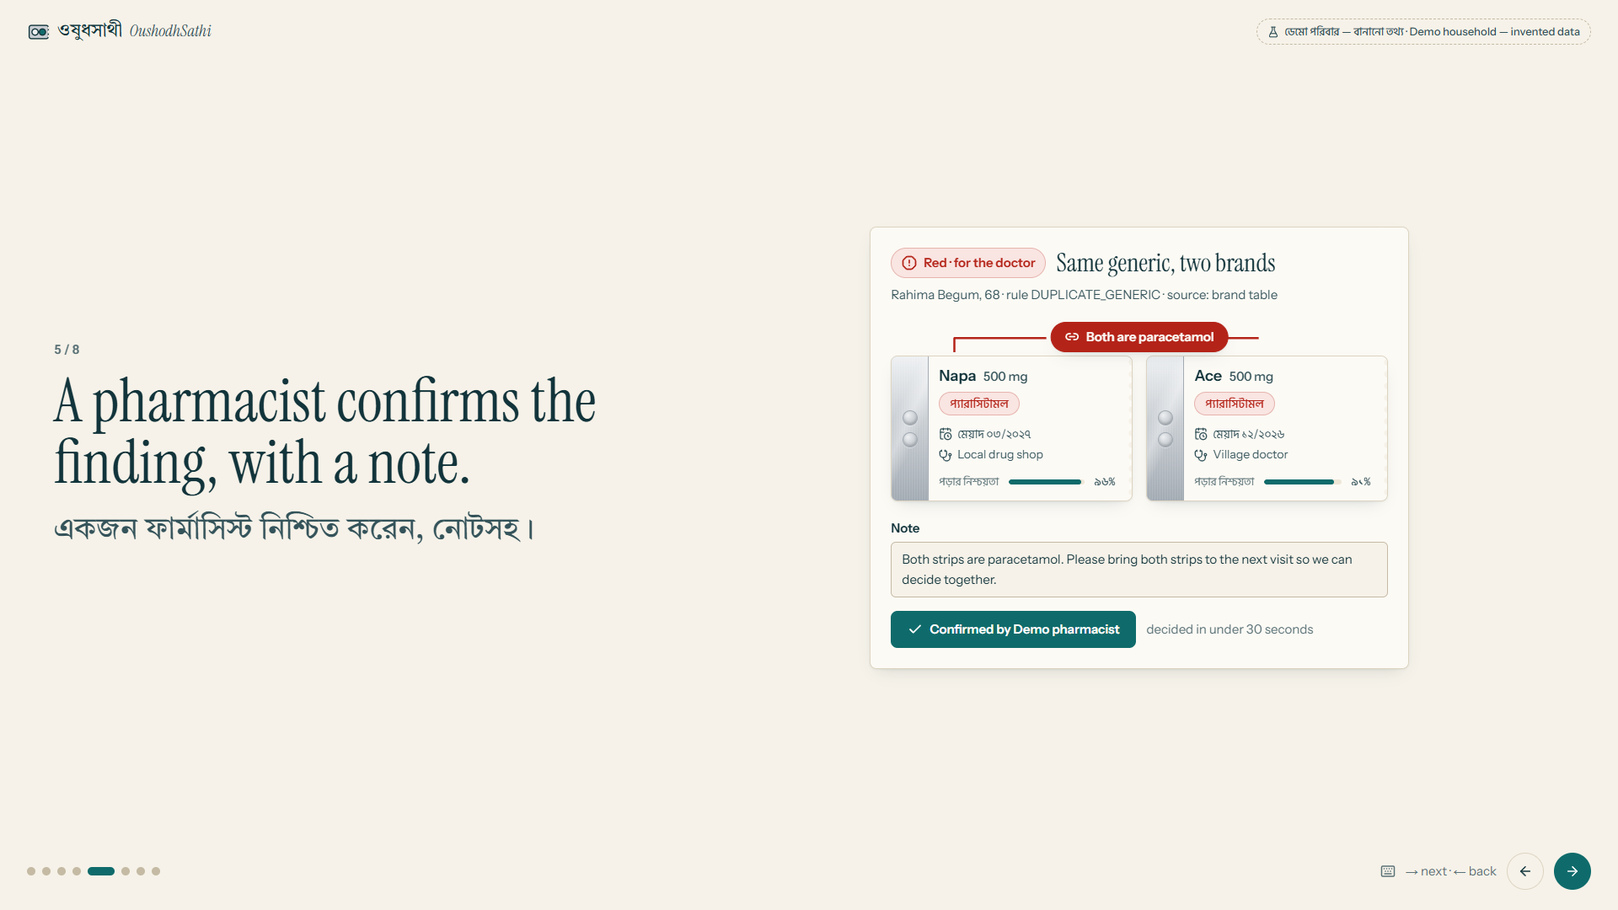
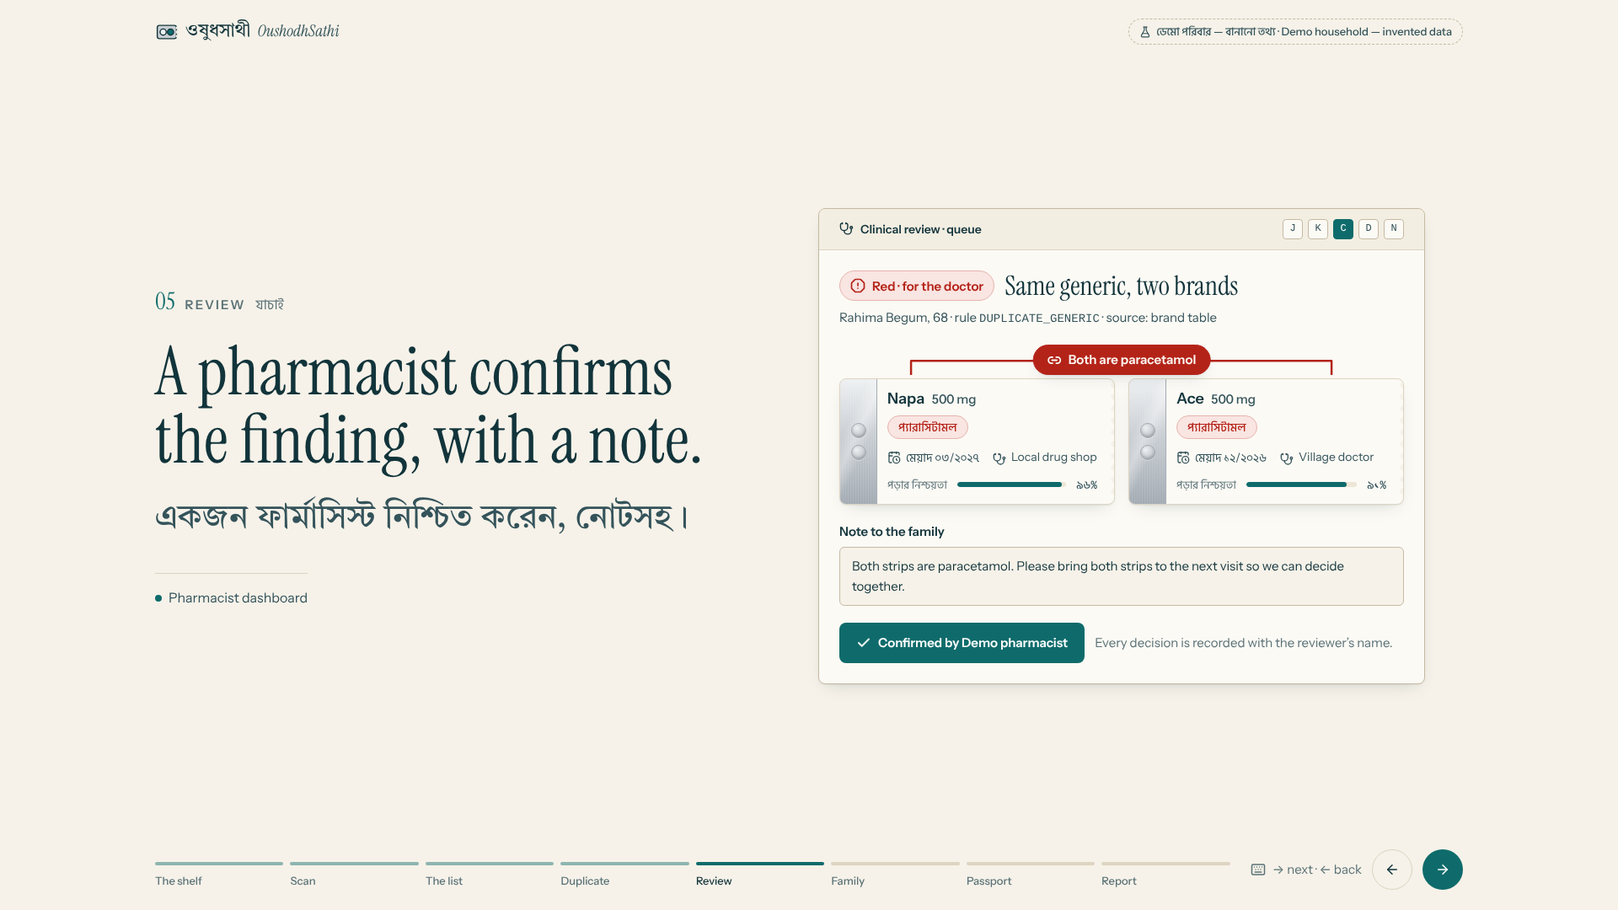
Demo: balanced stage, chapter rail, focused hero snap, device frames
- Centred two-column stage with a chapter label and 'who sees this' line
- Labelled progress rail instead of dots
- Duplicate step: the pair snaps side by side at full size, the rest of the
  shelf steps back; stacked connector on phones
- Review step framed as the pharmacist dashboard with its keyboard keys;
  family step inside a phone; list shows all six strips in two columns
- Tall stages scale down on short laptop screens so nothing scrolls
- DuplicateConnector: brackets now always draw in full (clip-path reveal
  instead of a dash animation Chrome mis-measured; vertical SVG gets an
  explicit height instead of the 150px default)

Claude-Session: https://claude.ai/code/session_015GZ2Ptjo5EV8De3PSNbFPu

diff --git a/frontend/src/app/demo/page.tsx b/frontend/src/app/demo/page.tsx
@@ -1,6 +1,6 @@
 "use client";
 
-import { ArrowLeft, ArrowRight, Check, Keyboard } from "lucide-react";
+import { ArrowLeft, ArrowRight, Camera, Check, Keyboard, Stethoscope } from "lucide-react";
 import { NextIntlClientProvider } from "next-intl";
 import { useCallback, useEffect, useState } from "react";
 import bn from "../../../messages/bn.json";
@@ -23,14 +23,14 @@ const PILE = [
 ];
 
 const STEPS = [
-  { en: "Rahima Begum, 68, collects medicines from three places.", bn: "রহিমা বেগম, ৬৮ — তিন জায়গা থেকে ওষুধ আসে।" },
-  { en: "Her daughter photographs the whole shelf.", bn: "মেয়ে পুরো তাকের ছবি তোলেন।" },
-  { en: "The list assembles itself.", bn: "তালিকা নিজে থেকেই সাজানো হয়।" },
-  { en: "Different names, same medicine: paracetamol, twice.", bn: "নাম আলাদা, ওষুধ একই — প্যারাসিটামল, দুইবার।" },
-  { en: "A pharmacist confirms the finding, with a note.", bn: "একজন ফার্মাসিস্ট নিশ্চিত করেন, নোটসহ।" },
-  { en: "Only now does the family see it, in simple Bangla.", bn: "এরপরই পরিবার দেখতে পায়, সহজ বাংলায়।" },
-  { en: "A passport for every doctor visit.", bn: "প্রতিবার ডাক্তারের কাছে নেওয়ার পাসপোর্ট।" },
-  { en: "And the weekly report keeps watch.", bn: "সাপ্তাহিক রিপোর্টে রক্তচাপের খোঁজ।" },
+  { ch: "The shelf", chBn: "তাক", who: "Rahima's home, Cumilla", en: "Rahima Begum, 68, collects medicines from three places.", bn: "রহিমা বেগম, ৬৮ — তিন জায়গা থেকে ওষুধ আসে।" },
+  { ch: "Scan", chBn: "ছবি", who: "Family app · phone camera", en: "Her daughter photographs the whole shelf.", bn: "মেয়ে পুরো তাকের ছবি তোলেন।" },
+  { ch: "The list", chBn: "তালিকা", who: "Vision model reads every strip", en: "The list assembles itself.", bn: "তালিকা নিজে থেকেই সাজানো হয়।" },
+  { ch: "Duplicate", chBn: "একই ওষুধ", who: "Rules engine · no AI", en: "Different names, same medicine: paracetamol, twice.", bn: "নাম আলাদা, ওষুধ একই — প্যারাসিটামল, দুইবার।" },
+  { ch: "Review", chBn: "যাচাই", who: "Pharmacist dashboard", en: "A pharmacist confirms the finding, with a note.", bn: "একজন ফার্মাসিস্ট নিশ্চিত করেন, নোটসহ।" },
+  { ch: "Family", chBn: "পরিবার", who: "Her daughter's phone, Toronto", en: "Only now does the family see it, in simple Bangla.", bn: "এরপরই পরিবার দেখতে পায়, সহজ বাংলায়।" },
+  { ch: "Passport", chBn: "পাসপোর্ট", who: "Printed, carried to every visit", en: "A passport for every doctor visit.", bn: "প্রতিবার ডাক্তারের কাছে নেওয়ার পাসপোর্ট।" },
+  { ch: "Report", chBn: "রিপোর্ট", who: "Weekly report", en: "And the weekly report keeps watch.", bn: "সাপ্তাহিক রিপোর্টে রক্তচাপের খোঁজ।" },
 ];
 
 /** A keyboard-paced walkthrough of the hero flow for recording. → / Space next, ← back. */
@@ -57,41 +57,51 @@ export default function DemoWalkthrough() {
   return (
     <NextIntlClientProvider locale="bn" messages={bn} timeZone="Asia/Dhaka">
       <div className="flex min-h-dvh flex-col overflow-x-hidden">
-        <header className="flex items-center justify-between gap-4 px-8 py-5">
+        <header className="mx-auto flex w-full max-w-[1680px] items-center justify-between gap-4 px-8 py-5 lg:px-16">
           <Wordmark />
           <DemoTag />
         </header>
 
-        <main className="grid flex-1 grid-cols-[minmax(0,1fr)] items-center gap-10 px-8 pb-6 lg:grid-cols-[minmax(0,0.85fr)_minmax(0,1.15fr)] lg:px-16">
-          <div key={`cap-${step}`} style={{ animation: "assemble 260ms var(--ease-out-quint) both" }}>
-            <p className="tabular text-[15px] font-semibold text-ink-faint">{step + 1} / {STEPS.length}</p>
-            <h1 lang="en" className="mt-3 font-display text-[clamp(40px,4.6vw,72px)] leading-[1.02] text-ink">{s.en}</h1>
-            <p lang="bn" className="mt-4 font-bn-display text-[clamp(24px,2.4vw,36px)] leading-snug text-ink-soft">{s.bn}</p>
+        <main className="mx-auto grid w-full max-w-[1680px] flex-1 grid-cols-[minmax(0,1fr)] items-center gap-10 px-8 pb-6 lg:grid-cols-[minmax(0,0.9fr)_minmax(0,1.1fr)] lg:gap-20 lg:px-16">
+          <div key={`cap-${step}`} className="max-w-[720px]" style={{ animation: "assemble 260ms var(--ease-out-quint) both" }}>
+            <p className="flex items-baseline gap-3 text-ink-faint">
+              <span className="tabular font-display text-[28px] leading-none text-teal">{String(step + 1).padStart(2, "0")}</span>
+              <span className="text-[15px] font-semibold uppercase tracking-[0.14em]">{s.ch}</span>
+              <span lang="bn" className="font-bn text-[16px]">{s.chBn}</span>
+            </p>
+            <h1 lang="en" className="mt-5 font-display text-[clamp(40px,4.4vw,80px)] leading-[1.02] text-ink">{s.en}</h1>
+            <p lang="bn" className="mt-5 font-bn-display text-[clamp(24px,2.3vw,40px)] leading-snug text-ink-soft">{s.bn}</p>
+            <p className="mt-8 inline-flex items-center gap-2 border-t border-rule pt-4 text-[16px] text-ink-soft">
+              <span aria-hidden className="h-2 w-2 rounded-full bg-teal" /> {s.who}
+            </p>
           </div>
 
-          <div className="relative flex min-h-[560px] min-w-0 items-center justify-center text-[18px]">
-            <Stage step={step} passportUrl={origin ? `${origin}/passport/1` : undefined} />
+          <div className="relative flex min-h-[520px] min-w-0 items-center justify-center text-[18px]">
+            <Stage key={step} step={step} passportUrl={origin ? `${origin}/passport/1` : undefined} />
           </div>
         </main>
 
-        <footer className="flex items-center justify-between gap-4 px-8 pb-6">
-          <ol className="flex gap-2" aria-label="Progress">
-            {STEPS.map((_, i) => (
-              <li key={i}>
+        <footer className="mx-auto flex w-full max-w-[1680px] items-end justify-between gap-6 px-8 pb-6 lg:px-16">
+          <ol className="grid min-w-0 flex-1 grid-cols-8 gap-2" aria-label="Progress">
+            {STEPS.map((st, i) => (
+              <li key={i} className="min-w-0">
                 <button
                   type="button"
-                  aria-label={`Step ${i + 1}`}
-                  aria-current={i === step}
+                  aria-label={`Step ${i + 1}: ${st.ch}`}
+                  aria-current={i === step ? "step" : undefined}
                   onClick={() => setStep(i)}
-                  className={cx("block h-2.5 rounded-chip transition-all duration-200", i === step ? "w-8 bg-teal" : "w-2.5 bg-rule-strong")}
-                />
+                  className="group block w-full pt-2 text-left"
+                >
+                  <span className={cx("block h-1 rounded-chip transition-colors duration-200", i < step ? "bg-teal/45" : i === step ? "bg-teal" : "bg-rule")} />
+                  <span className={cx("mt-2 hidden truncate text-[13px] font-medium md:block", i === step ? "text-ink" : "text-ink-faint group-hover:text-ink-soft")}>{st.ch}</span>
+                </button>
               </li>
             ))}
           </ol>
-          <div className="flex items-center gap-3 text-[15px] text-ink-faint">
-            <Keyboard aria-hidden size={18} /> → next · ← back
-            <button type="button" onClick={() => go(-1)} aria-label="Back" className="inline-flex h-11 w-11 items-center justify-center rounded-full border border-rule text-ink"><ArrowLeft aria-hidden size={18} /></button>
-            <button type="button" onClick={() => go(1)} aria-label="Next" className="inline-flex h-11 w-11 items-center justify-center rounded-full bg-teal text-on-teal"><ArrowRight aria-hidden size={18} /></button>
+          <div className="flex shrink-0 items-center gap-3 text-[15px] text-ink-faint">
+            <span className="hidden items-center gap-2 lg:inline-flex"><Keyboard aria-hidden size={18} /> → next · ← back</span>
+            <button type="button" onClick={() => go(-1)} aria-label="Back" className="inline-flex h-12 w-12 items-center justify-center rounded-full border border-rule text-ink"><ArrowLeft aria-hidden size={18} /></button>
+            <button type="button" onClick={() => go(1)} aria-label="Next" className="inline-flex h-12 w-12 items-center justify-center rounded-full bg-teal text-on-teal"><ArrowRight aria-hidden size={18} /></button>
           </div>
         </footer>
       </div>
@@ -99,25 +109,47 @@ export default function DemoWalkthrough() {
   );
 }
 
+/** A phone outline for screens the family sees. */
+function Phone({ children, label }: { children: React.ReactNode; label: string }) {
+  return (
+    <figure className="demo-fit w-full max-w-[420px]" style={{ animation: "assemble 280ms var(--ease-out-quint) both" }}>
+      <div className="rounded-[40px] border border-rule-strong bg-paper-sunk p-3 shadow-soft">
+        <div className="overflow-hidden rounded-[30px] border border-rule bg-paper">
+          <div className="flex items-center justify-between px-5 pb-1 pt-3 text-[12px] font-medium text-ink-faint">
+            <span className="tabular">9:41</span><span aria-hidden className="h-1.5 w-16 rounded-chip bg-rule" /><span>{label}</span>
+          </div>
+          <div className="relative max-h-[700px] overflow-hidden px-4 pb-5 pt-2">
+            {children}
+            <div aria-hidden className="pointer-events-none absolute inset-x-0 bottom-0 h-24 bg-gradient-to-t from-paper to-transparent" />
+          </div>
+        </div>
+      </div>
+    </figure>
+  );
+}
+
 function Stage({ step, passportUrl }: { step: number; passportUrl?: string }) {
   if (step <= 1) {
-    // the messy shelf: strips in a pile; step 1 adds the camera frame
+    // the messy shelf: strips in a pile; step 2 adds the camera frame around it
     return (
-      <div className="relative h-[520px] w-full max-w-[460px]">
+      <div className="relative h-[480px] w-full max-w-[500px]">
         {SHELF.map((it, i) => (
           <div
             key={it.id}
-            className="absolute left-1/2 top-4 w-[330px] transition-transform duration-500"
+            className="absolute left-1/2 top-[60px] w-[340px] transition-transform duration-500"
             style={{ transform: `translate(calc(-50% + ${PILE[i].x}px), ${PILE[i].y}px) rotate(${PILE[i].r}deg)`, zIndex: i }}
           >
             <StripCard item={it} density="compact" />
           </div>
         ))}
         {step === 1 && (
-          <div aria-hidden className="pointer-events-none absolute -inset-4 z-20 rounded-[24px] border-[3px] border-teal" style={{ animation: "assemble 240ms var(--ease-out-quint) both" }}>
+          <div aria-hidden className="pointer-events-none absolute -inset-x-6 -inset-y-2 z-20 rounded-[28px] border-[3px] border-teal" style={{ animation: "assemble 240ms var(--ease-out-quint) both" }}>
             {["left-3 top-3 border-l-4 border-t-4", "right-3 top-3 border-r-4 border-t-4", "bottom-3 left-3 border-b-4 border-l-4", "bottom-3 right-3 border-b-4 border-r-4"].map((c) => (
-              <span key={c} className={`absolute h-8 w-8 border-teal ${c}`} />
+              <span key={c} className={`absolute h-9 w-9 rounded-[3px] border-teal ${c}`} />
             ))}
+            <span className="absolute -bottom-5 left-1/2 inline-flex h-10 -translate-x-1/2 items-center gap-2 rounded-chip bg-teal px-4 text-[15px] font-semibold text-on-teal shadow-soft">
+              <Camera aria-hidden size={17} /> {SHELF.length} strips in view
+            </span>
           </div>
         )}
       </div>
@@ -125,9 +157,9 @@ function Stage({ step, passportUrl }: { step: number; passportUrl?: string }) {
   }
   if (step === 2) {
     return (
-      <div className="grid w-full max-w-[460px] gap-3">
-        {SHELF.slice(0, 5).map((it, i) => (
-          <div key={it.id} style={{ animation: `assemble 260ms var(--ease-out-quint) ${i * 140}ms both` }}>
+      <div className="demo-fit-sm grid w-full max-w-[880px] gap-4 sm:grid-cols-2">
+        {SHELF.map((it, i) => (
+          <div key={it.id} style={{ animation: `assemble 260ms var(--ease-out-quint) ${i * 120}ms both` }}>
             <StripCard item={it} density="compact" />
           </div>
         ))}
@@ -135,47 +167,83 @@ function Stage({ step, passportUrl }: { step: number; passportUrl?: string }) {
     );
   }
   if (step === 3) {
+    // the hero moment: the pair snaps together, everything else steps back
     return (
-      <div className="grid w-full max-w-[460px] gap-3">
-        <DuplicateConnector label="দুটোই প্যারাসিটামল" delay={150}>
+      <div className="w-full max-w-[860px]">
+        {/* side by side from tablet up; stacked on phones (display:none keeps one copy in the a11y tree) */}
+        <DuplicateConnector orientation="horizontal" label="দুটোই প্যারাসিটামল" delay={150} className="hidden sm:block">
+          <StripCard item={DEMO_ITEMS.napa} highlight="red" />
+          <StripCard item={DEMO_ITEMS.ace} highlight="red" />
+        </DuplicateConnector>
+        <DuplicateConnector label="দুটোই প্যারাসিটামল" delay={150} className="sm:hidden">
           <StripCard item={DEMO_ITEMS.napa} density="compact" highlight="red" />
           <StripCard item={DEMO_ITEMS.ace} density="compact" highlight="red" />
         </DuplicateConnector>
-        <div style={{ animation: "settle 240ms var(--ease-out-quint) 200ms both" }}><StripCard item={DEMO_ITEMS.camlodin} density="compact" /></div>
+        <p lang="en" className="mt-5 text-center text-[17px] text-ink-soft" style={{ animation: "assemble 260ms var(--ease-out-quint) 650ms both" }}>
+          From the <b className="font-semibold text-ink">local drug shop</b> and the <b className="font-semibold text-ink">village doctor</b>: two prescribers, one medicine.
+        </p>
+        <div aria-hidden className="mt-8 hidden grid-cols-2 gap-4 opacity-40 saturate-50 sm:grid">
+          <StripCard item={DEMO_ITEMS.camlodin} density="compact" />
+          <StripCard item={comet} density="compact" />
+        </div>
       </div>
     );
   }
   if (step === 4) {
     return (
-      <div lang="en" className="w-full max-w-[640px] rounded-card border border-rule bg-paper-raised p-6 text-[15px] shadow-soft">
-        <div className="flex flex-wrap items-center gap-3">
-          <SeverityBadge severity="red" label="Red · for the doctor" />
-          <span className="font-display text-[30px] leading-none">Same generic, two brands</span>
-        </div>
-        <p className="mt-2 text-ink-soft">Rahima Begum, 68 · rule DUPLICATE_GENERIC · source: brand table</p>
-        <div className="mt-5">
-          <DuplicateConnector orientation="horizontal" label="Both are paracetamol" animate={false}>
-            <StripCard item={DEMO_ITEMS.napa} density="compact" highlight="red" />
-            <StripCard item={DEMO_ITEMS.ace} density="compact" highlight="red" />
-          </DuplicateConnector>
-        </div>
-        <p className="mt-5 font-semibold text-ink">Note</p>
-        <p className="mt-1 rounded-md border border-rule-strong bg-paper px-3 py-2 text-ink">{DEMO_FLAG.note}</p>
-        <div className="mt-4 flex items-center gap-3">
-          <span className="inline-flex h-11 items-center gap-2 rounded-card bg-teal px-5 font-semibold text-on-teal" style={{ animation: "settle 260ms var(--ease-out-quint) 500ms both" }}>
-            <Check aria-hidden size={18} strokeWidth={2.5} /> Confirmed by Demo pharmacist
+      <div lang="en" className="demo-fit-sm w-full max-w-[720px] overflow-hidden rounded-card border border-rule-strong bg-paper-raised text-[15px] shadow-soft" style={{ animation: "assemble 280ms var(--ease-out-quint) both" }}>
+        <div className="flex items-center justify-between border-b border-rule bg-paper-sunk/60 px-6 py-3 text-[14px] text-ink-soft">
+          <span className="inline-flex items-center gap-2 font-semibold text-ink"><Stethoscope aria-hidden size={17} /> Clinical review · queue</span>
+          <span className="flex items-center gap-1.5">
+            {["J", "K", "C", "D", "N"].map((k) => (
+              <kbd key={k} className={cx("inline-flex h-6 min-w-6 items-center justify-center rounded border px-1.5 font-mono text-[12px]", k === "C" ? "border-teal bg-teal text-on-teal" : "border-rule-strong bg-paper-raised")}>{k}</kbd>
+            ))}
           </span>
-          <span className="text-ink-faint">decided in under 30 seconds</span>
+        </div>
+        <div className="p-6">
+          <div className="flex flex-wrap items-center gap-3">
+            <SeverityBadge severity="red" label="Red · for the doctor" />
+            <span className="font-display text-[32px] leading-none">Same generic, two brands</span>
+          </div>
+          <p className="mt-2 text-ink-soft">Rahima Begum, 68 · rule <code className="font-mono text-[14px]">DUPLICATE_GENERIC</code> · source: brand table</p>
+          <div className="mt-5">
+            <DuplicateConnector orientation="horizontal" label="Both are paracetamol" animate={false} className="hidden sm:block">
+              <StripCard item={DEMO_ITEMS.napa} density="compact" highlight="red" />
+              <StripCard item={DEMO_ITEMS.ace} density="compact" highlight="red" />
+            </DuplicateConnector>
+            <DuplicateConnector label="Both are paracetamol" animate={false} className="sm:hidden">
+              <StripCard item={DEMO_ITEMS.napa} density="compact" highlight="red" />
+              <StripCard item={DEMO_ITEMS.ace} density="compact" highlight="red" />
+            </DuplicateConnector>
+          </div>
+          <p className="mt-5 font-semibold text-ink">Note to the family</p>
+          <p className="mt-1.5 rounded-md border border-rule-strong bg-paper px-3.5 py-2.5 text-ink">{DEMO_FLAG.note}</p>
+          <div className="mt-5 flex flex-wrap items-center gap-3">
+            <span className="inline-flex h-12 items-center gap-2 rounded-card bg-teal px-5 font-semibold text-on-teal" style={{ animation: "settle 260ms var(--ease-out-quint) 500ms both" }}>
+              <Check aria-hidden size={18} strokeWidth={2.5} /> Confirmed by Demo pharmacist
+            </span>
+            <span className="text-ink-faint">Every decision is recorded with the reviewer&rsquo;s name.</span>
+          </div>
         </div>
       </div>
     );
   }
-  if (step === 5) return <div className="w-full max-w-[460px]"><FlagResult flag={DEMO_FLAG} /></div>;
-  if (step === 6) return <div className="w-full max-w-[560px]" style={{ animation: "settle 260ms var(--ease-out-quint) both" }}><MedicinePassport passport={DEMO_PASSPORT} url={passportUrl} /></div>;
+  if (step === 5) return <Phone label="ওষুধসাথী"><FlagResult flag={DEMO_FLAG} /></Phone>;
+  if (step === 6) return <div className="demo-fit w-full max-w-[580px] rotate-[0.6deg]" style={{ animation: "settle 260ms var(--ease-out-quint) both" }}><MedicinePassport passport={DEMO_PASSPORT} url={passportUrl} /></div>;
+  const first = DEMO_BP[0];
+  const last = DEMO_BP[DEMO_BP.length - 1];
   return (
-    <div className="w-full max-w-[560px] rounded-card border border-rule bg-paper-raised p-6" style={{ animation: "assemble 260ms var(--ease-out-quint) both" }}>
-      <p className="font-bn-display text-[24px]">রক্তচাপ — গত ৭ দিন</p>
-      <div className="mt-3"><BPTrend readings={DEMO_BP} height={280} /></div>
+    <div className="w-full max-w-[640px] rounded-card border border-rule bg-paper-raised p-7 shadow-soft" style={{ animation: "assemble 260ms var(--ease-out-quint) both" }}>
+      <div className="flex flex-wrap items-baseline justify-between gap-3">
+        <p className="font-bn-display text-[26px]">রক্তচাপ — গত ৭ দিন</p>
+        {first && last && (
+          <p lang="en" className="tabular text-[15px] text-ink-soft">
+            {first.systolic}/{first.diastolic} → <b className="font-semibold text-ink">{last.systolic}/{last.diastolic}</b> mmHg
+          </p>
+        )}
+      </div>
+      <div className="mt-4"><BPTrend readings={DEMO_BP} height={300} /></div>
+      <p className="mt-4 border-t border-rule pt-4 text-[15px] text-ink-soft">Sent to the family every Friday. Target 140/90 marked on the chart.</p>
     </div>
   );
 }

diff --git a/frontend/src/components/DuplicateConnector.tsx b/frontend/src/components/DuplicateConnector.tsx
@@ -43,6 +43,7 @@ export function DuplicateConnector({
           className="absolute inset-x-[12%] top-3 h-6 w-[76%] overflow-visible"
           viewBox="0 0 100 20"
           preserveAspectRatio="none"
+          style={anim("reveal-x", 320, 200)}
         >
           <path
             d="M1 20 V6 H99 V20"
@@ -51,9 +52,6 @@ export function DuplicateConnector({
             strokeWidth={2.5}
             strokeLinejoin="round"
             vectorEffect="non-scaling-stroke"
-            pathLength={100}
-            strokeDasharray={100}
-            style={animate ? ({ "--len": 100, animation: `draw 320ms var(--ease-out-quint) ${delay + 200}ms both` } as CSSProperties) : undefined}
           />
         </svg>
         <span
@@ -84,9 +82,10 @@ export function DuplicateConnector({
     <div className={cx("relative min-w-0 pl-6", className)} role="group" aria-label={label}>
       <svg
         aria-hidden
-        className="absolute bottom-10 left-0 top-10 w-5 overflow-visible"
+        className="absolute left-0 top-10 h-[calc(100%-5rem)] w-5 overflow-visible"
         viewBox="0 0 20 100"
         preserveAspectRatio="none"
+        style={anim("reveal-y", 320, 200)}
       >
         <path
           d="M20 1 H5 V99 H20"
@@ -95,9 +94,6 @@ export function DuplicateConnector({
           strokeWidth={2.5}
           strokeLinejoin="round"
           vectorEffect="non-scaling-stroke"
-          pathLength={100}
-          strokeDasharray={100}
-          style={animate ? ({ "--len": 100, animation: `draw 320ms var(--ease-out-quint) ${delay + 200}ms both` } as CSSProperties) : undefined}
         />
       </svg>
       <div className="flex min-w-0 flex-col gap-3">

diff --git a/frontend/src/app/globals.css b/frontend/src/app/globals.css
@@ -239,9 +239,14 @@ a {
   from { transform: translateX(28px); }
   to { transform: none; }
 }
-@keyframes draw {
-  from { stroke-dashoffset: var(--len, 400); }
-  to { stroke-dashoffset: 0; }
+/* Brackets reveal from the middle outwards; the resting state is always the full path. */
+@keyframes reveal-x {
+  from { clip-path: inset(0 50% 0 50%); }
+  to { clip-path: inset(0 0 0 0); }
+}
+@keyframes reveal-y {
+  from { clip-path: inset(50% 0 50% 0); }
+  to { clip-path: inset(0 0 0 0); }
 }
 @keyframes label-in-x {
   from { opacity: 0; transform: translateX(-50%) scale(0.9); }
@@ -280,4 +285,19 @@ a {
   .no-print {
     display: none !important;
   }
+}
+
+/* /demo: tall stages (phone, passport) scale down on short laptop screens so the
+   progress rail stays on screen. */
+@media (min-width: 1024px) and (max-height: 1120px) {
+  .demo-fit { zoom: 0.86; }
+}
+@media (min-width: 1024px) and (max-height: 940px) {
+  .demo-fit { zoom: 0.74; }
+}
+@media (min-width: 1024px) and (max-height: 800px) {
+  .demo-fit { zoom: 0.64; }
+}
+@media (min-width: 1024px) and (max-height: 800px) {
+  .demo-fit-sm { zoom: 0.86; }
 }
